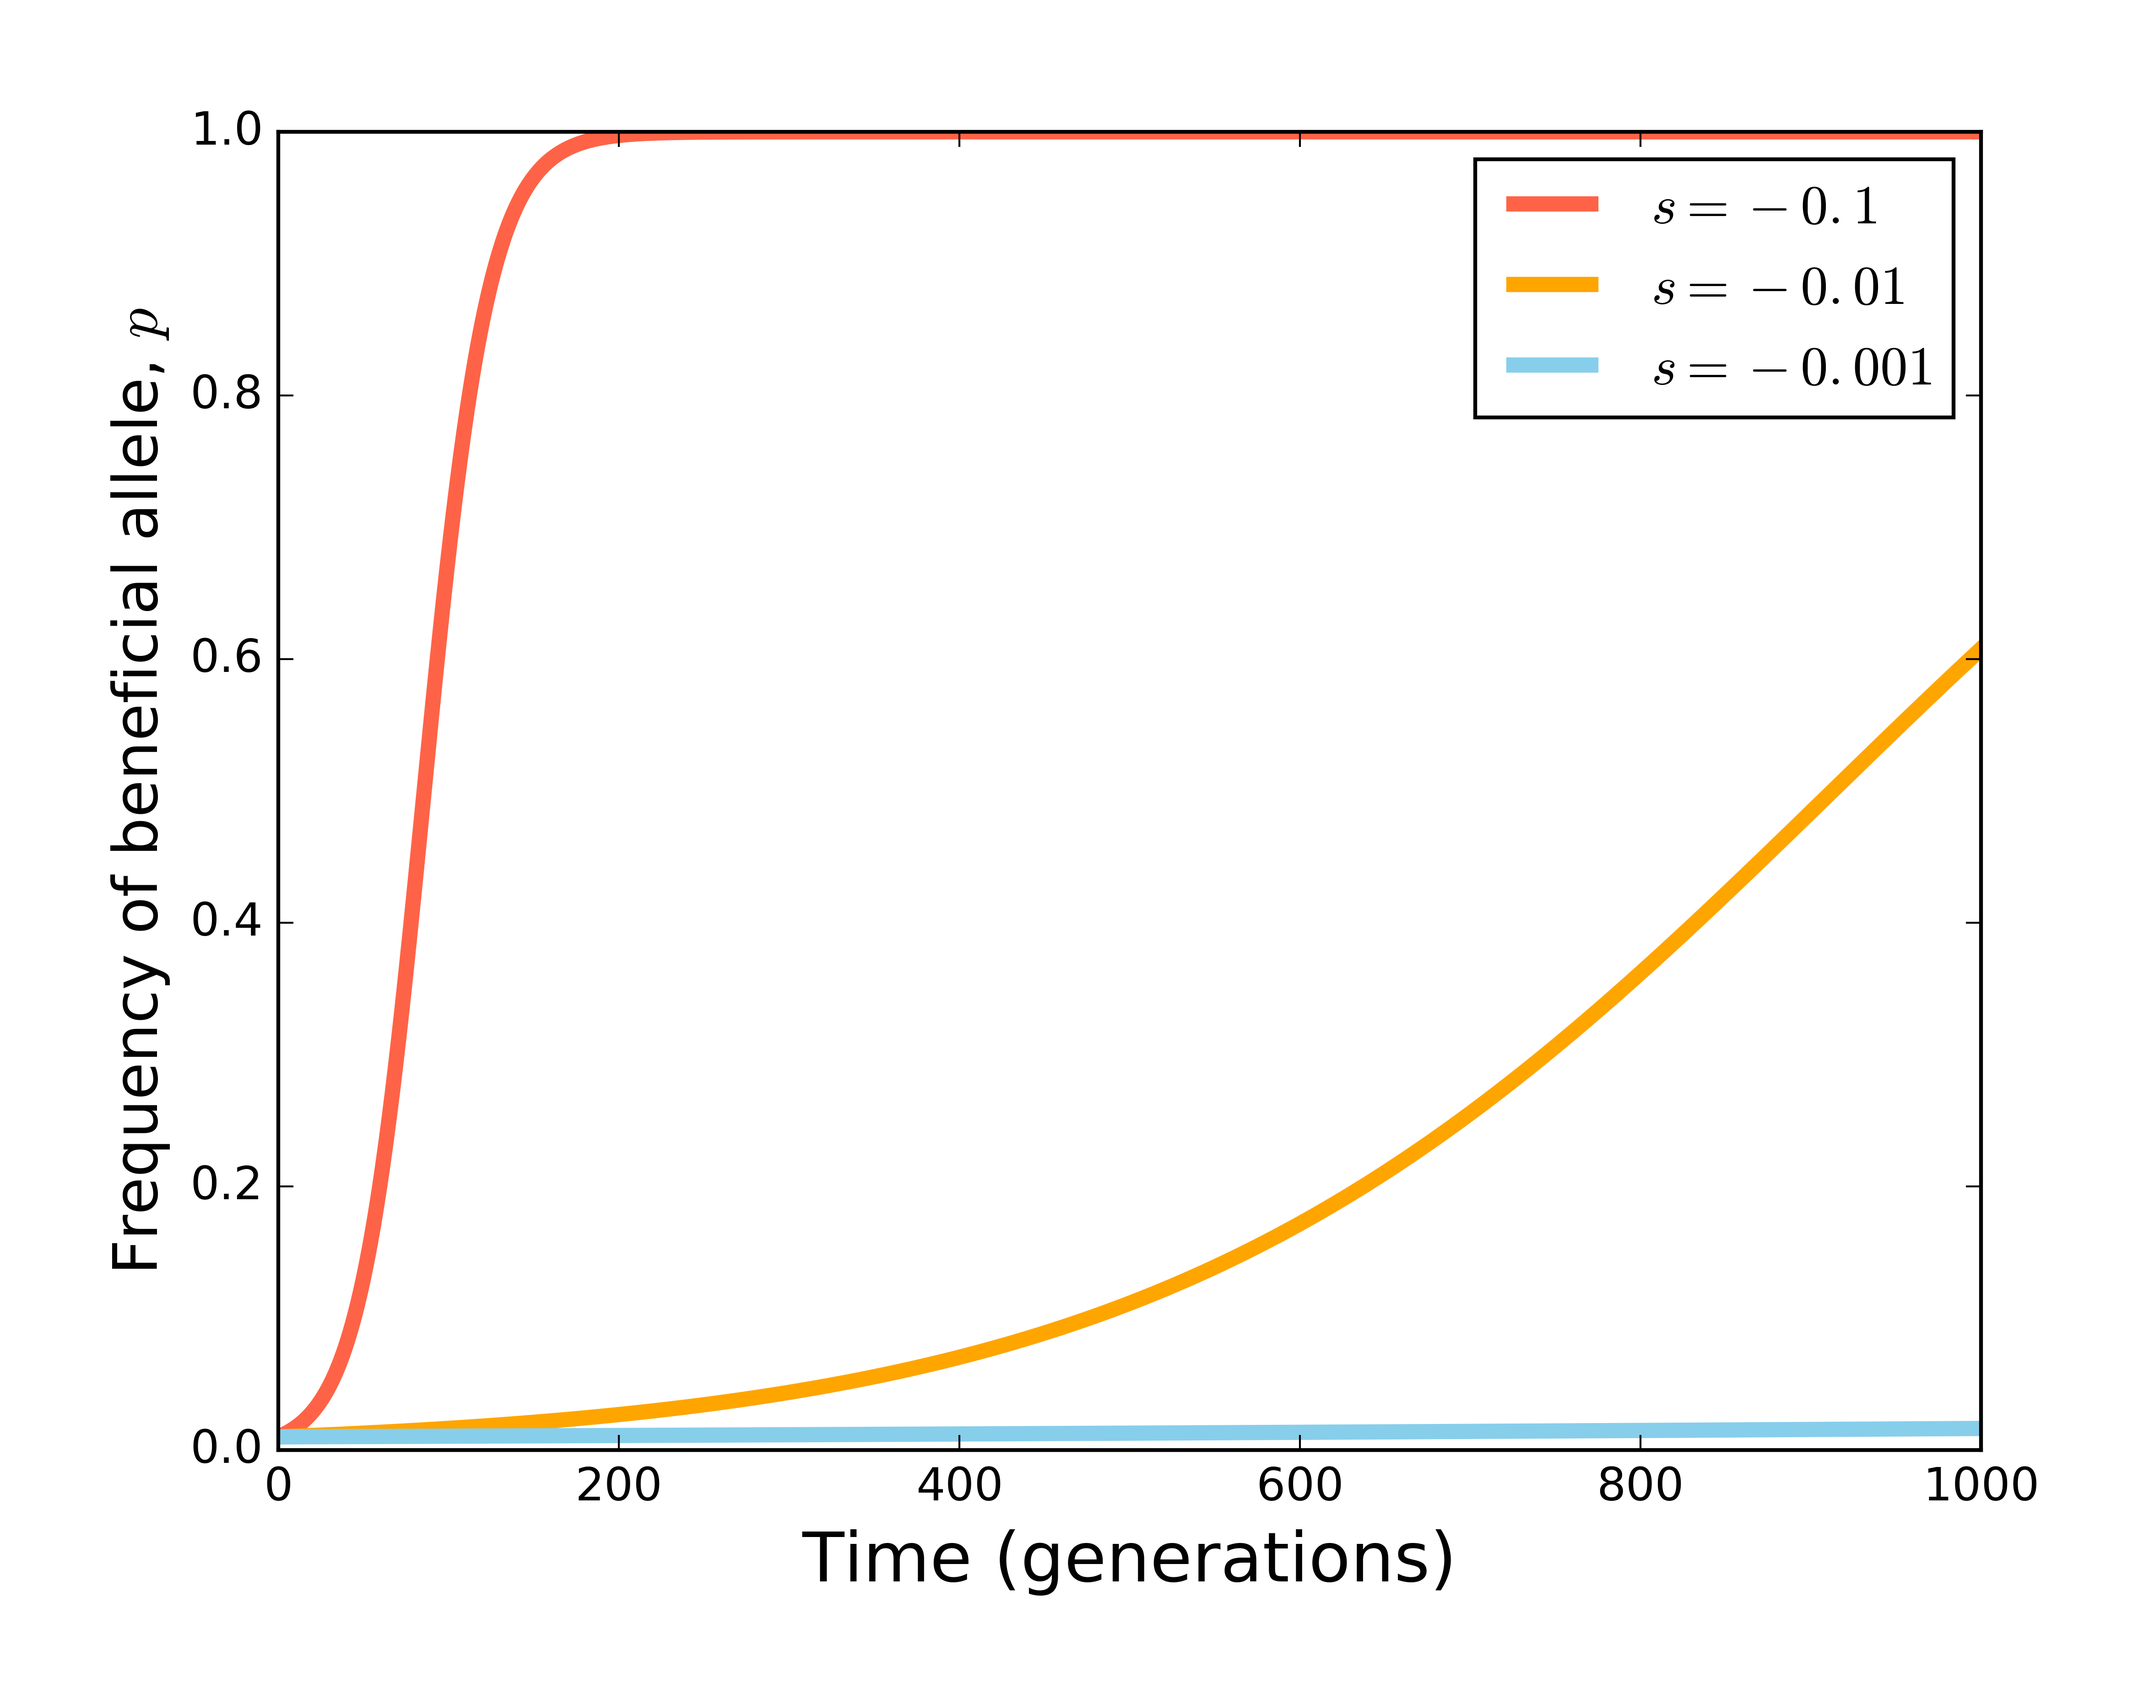
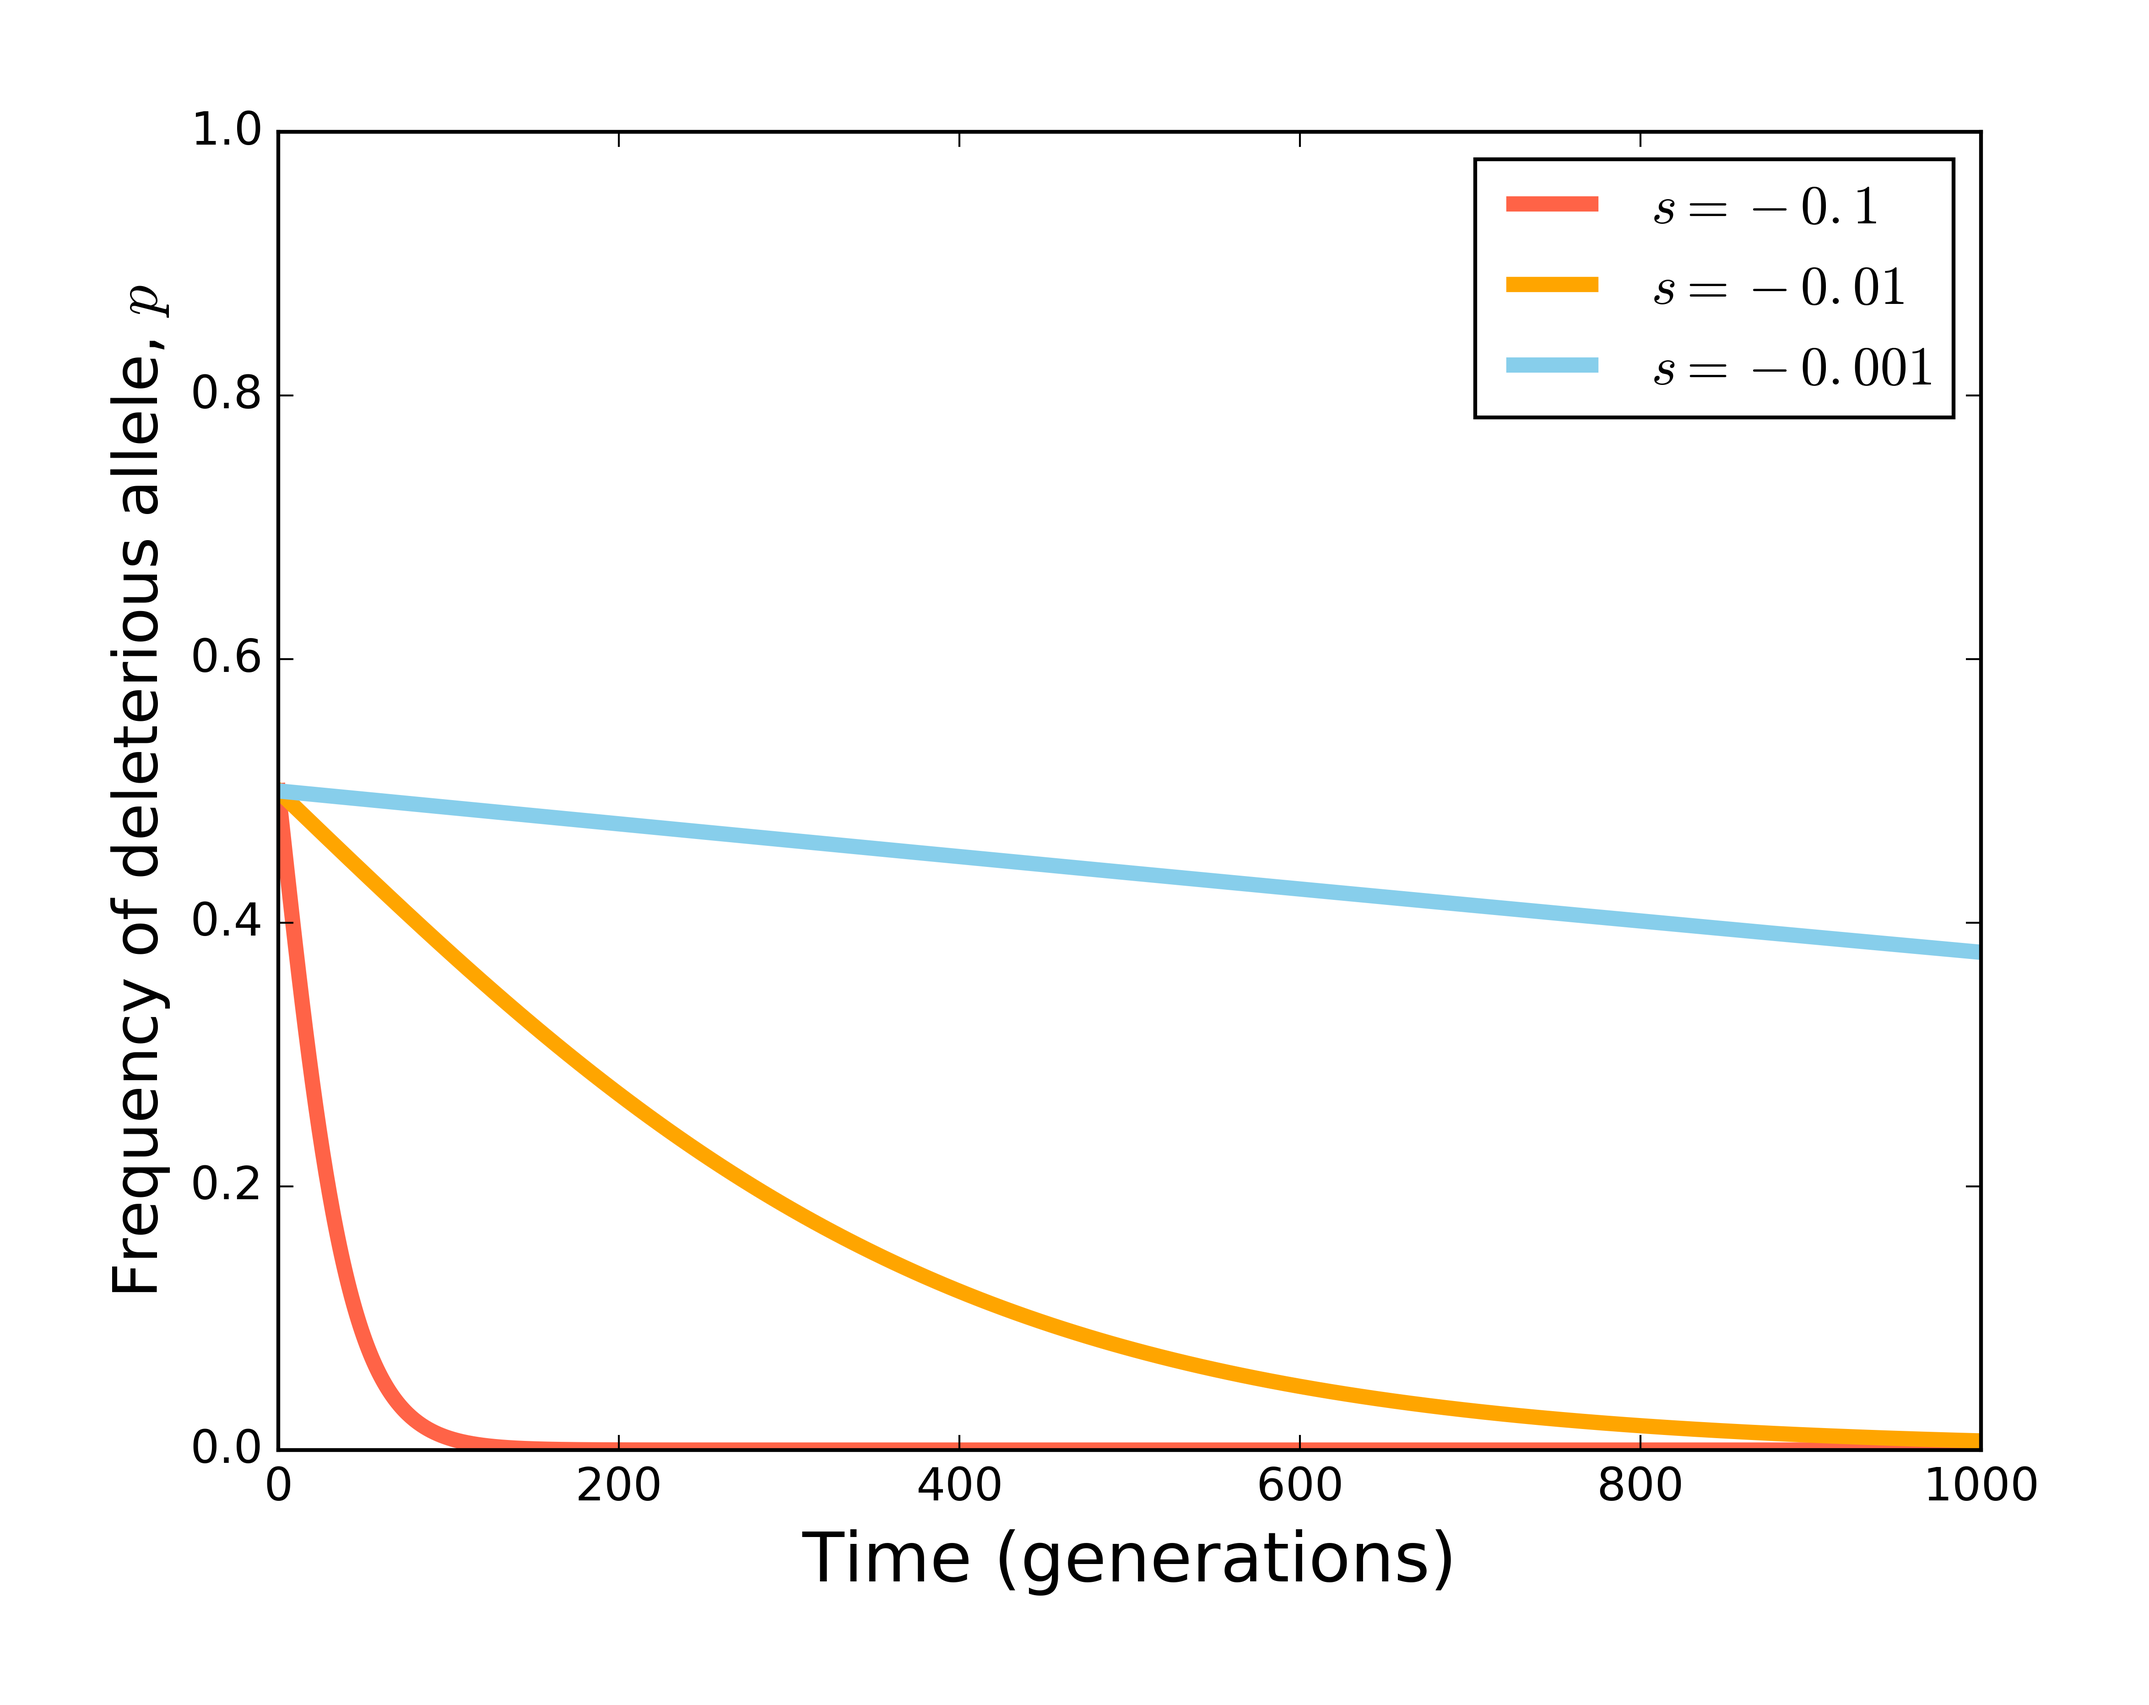
y axis deleterious fig

diff --git a/Python/popGenVisuals.py b/Python/popGenVisuals.py
@@ -67,7 +67,7 @@ def negSelectionFig(gens = 1000):
     plt.ylim(0, 1)
     plt.legend(loc = 'upper right')
     plt.xlabel('Time (generations)', fontsize=18)
-    plt.ylabel('Frequency of beneficial allele, ' + r'$p$' , fontsize=16)
+    plt.ylabel('Frequency of deleterious allele, ' + r'$p$' , fontsize=16)
     fig.savefig(mydir + 'Figures/selection/negSelection.png', bbox_inches='tight', pad_inches = 0.4, dpi = 600)
     plt.close()
 
@@ -125,7 +125,7 @@ def balSelectionFig(gens = 1000):
     plt.plot(np.asarray(x), np.asarray(selection_01), lw = 4, c = '#FFA500', label = r'$h=-0.5$')
     plt.plot(np.asarray(x), np.asarray(selection_001), lw = 4, c = '#87CEEB', label = r'$h=-0.5$')
     plt.ylim(0, 1)
-    plt.legend(loc = 'upper right')
+    #plt.legend(loc = 'upper right')
     plt.xlabel('Time (generations)', fontsize=18)
     plt.ylabel('Frequency of beneficial allele, ' + r'$p$' , fontsize=16)
     fig.savefig(mydir + 'Figures/selection/balSelection.png', bbox_inches='tight', pad_inches = 0.4, dpi = 600)
@@ -645,4 +645,6 @@ def manateeNe():
 #balSelectionFig()
 #domSelectionFig()
 #manateeNe()
-driftBottleFig()
+#driftBottleFig()
+negSelectionFig()
+balSelectionFig()
